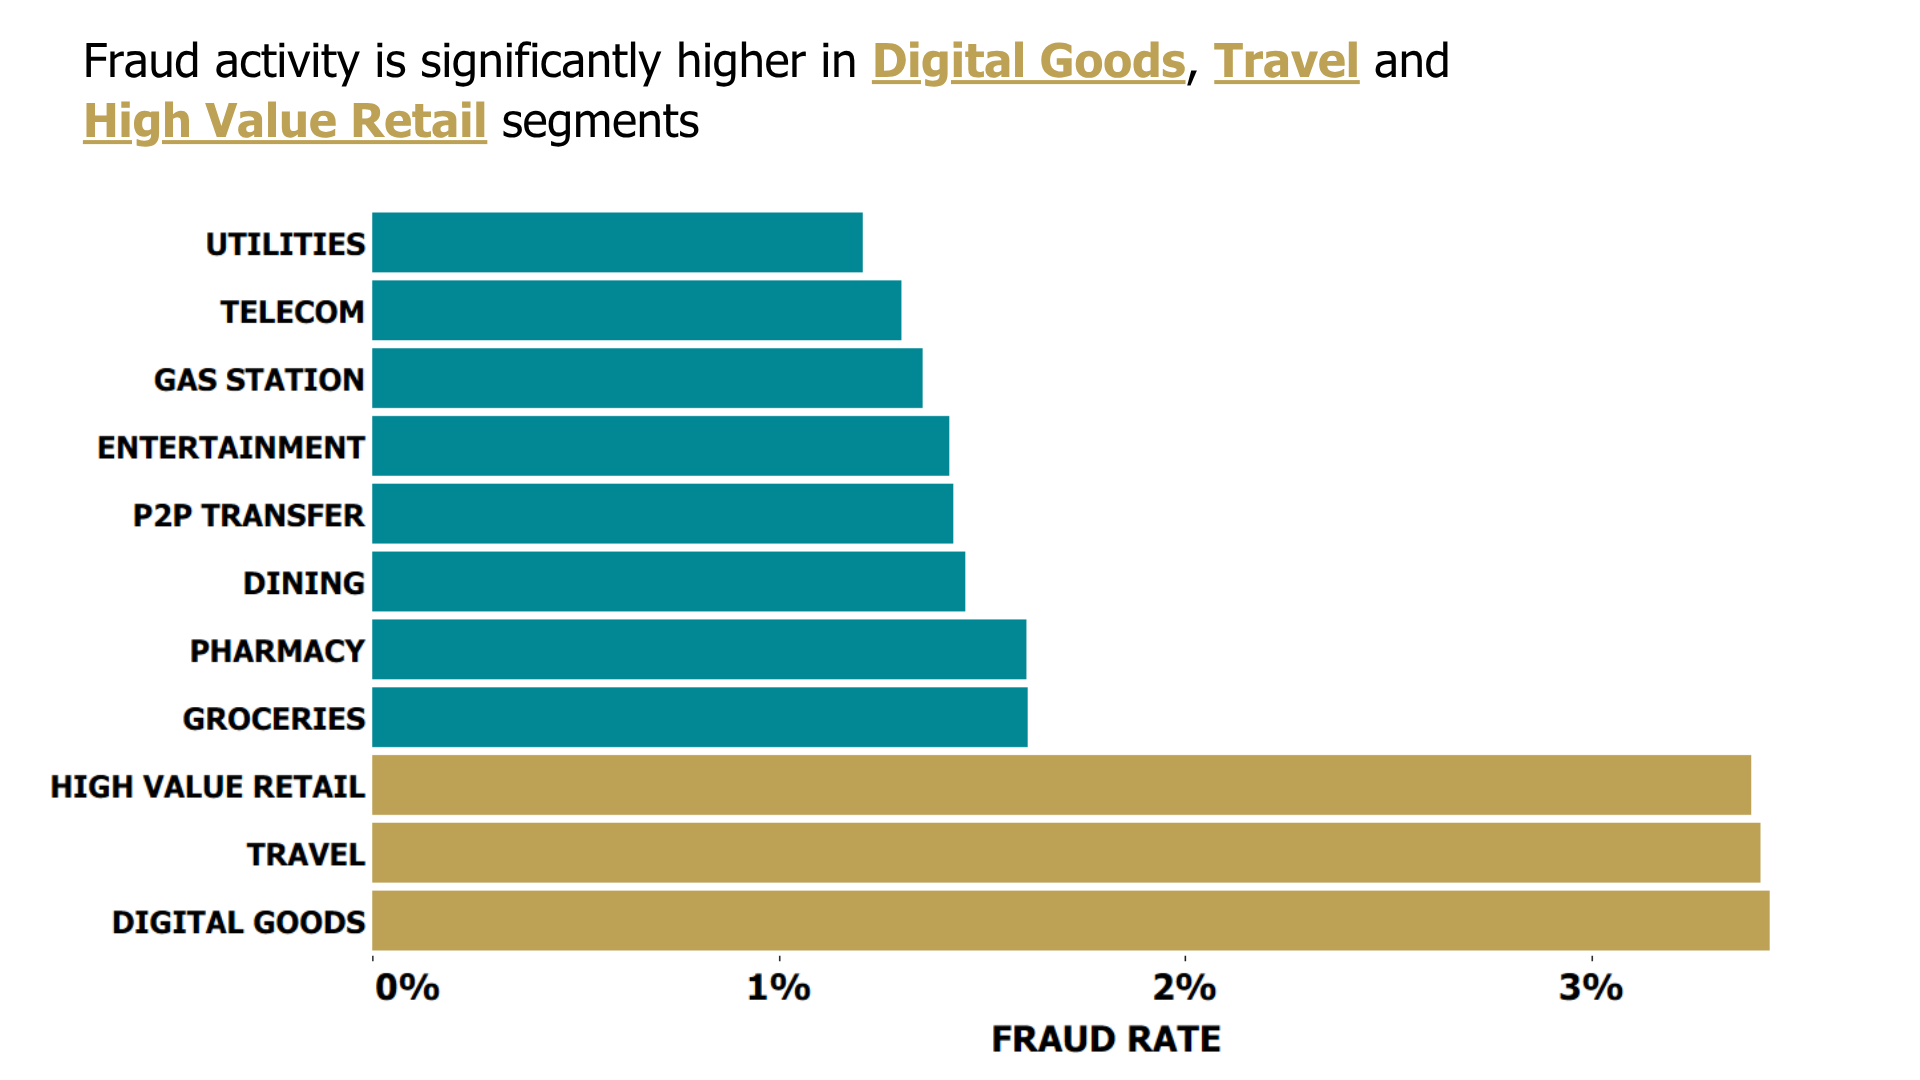
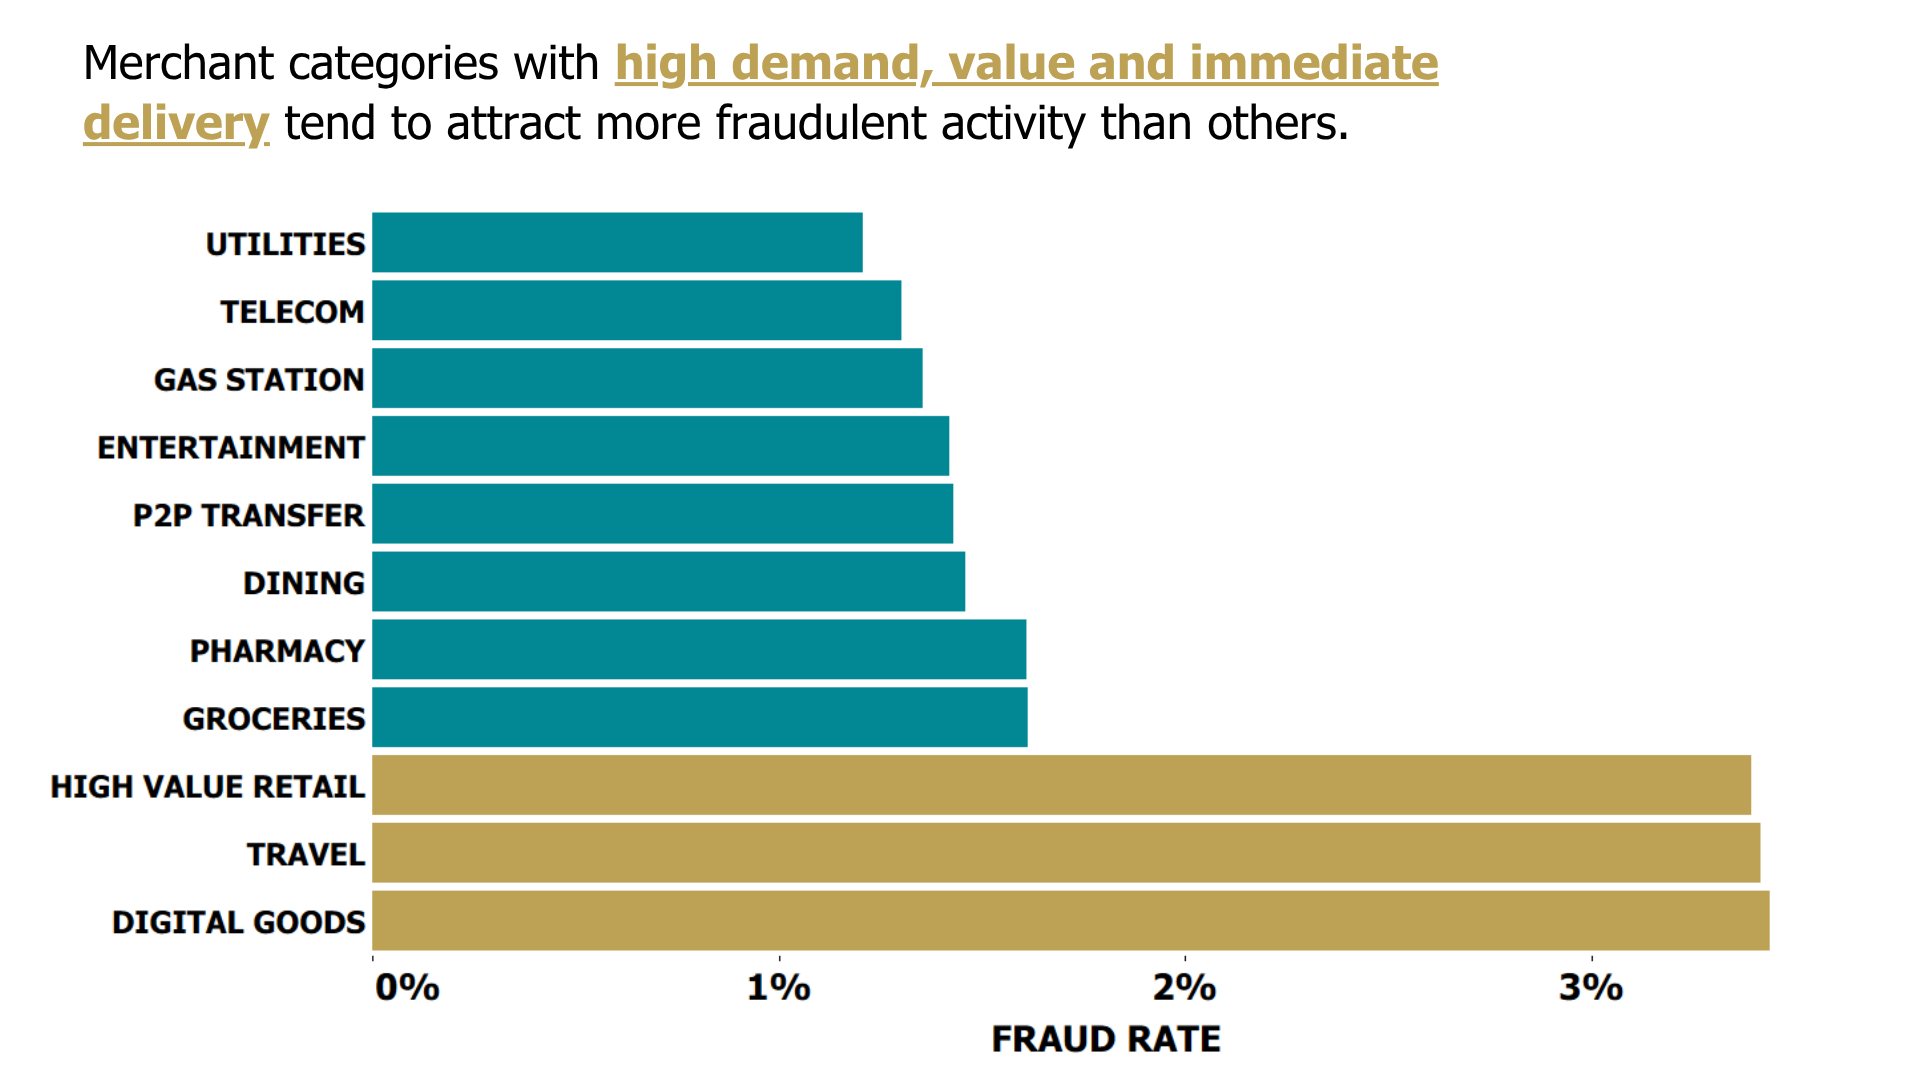
finish README

Changed region(s): [[0.0312, 0.0306, 0.75, 0.1528]]

diff --git a/main.py b/main.py
@@ -202,6 +202,7 @@ if __name__ == '__main__':
 	)
 
 	generate_confusion_matrix(base_test_case_df, 'Large amount of FP and FN', 'assets/current_confusion_matrix.png')
+	generate_confusion_matrix(base_test_case_df, 'Before', 'assets/before_confusion_matrix.png')
 	generate_confusion_matrix(best_test_case_df, 'After model adjustments', 'assets/after_model_adjustments_confusion_matrix.png')
 
 	print('\tAll charts have been generated.')

diff --git a/README.md b/README.md
@@ -111,7 +111,7 @@ IV value Reference table:
 
 - Special holidays during this season **(Black Friday, Chrismas, New Year, etc)** see an increase in sales and transaction volume, offering bigger opportunities for malicious entities to operate.
 
-- WoE (Weight of Evidence) of transactions done between november and january is 1.4361, which increases the odds of these transactions of being fraud by **4.2x** more than the others.
+- WoE (Weight of Evidence) of transactions done between november and january is 0.8113, which increases the odds of these transactions of being fraud by **2.25x** more than the others.
 
 <br>
 <br>
@@ -131,3 +131,129 @@ IV value Reference table:
 
 <br>
 <br>
+
+<div align='center'>
+	<img width='80%' src='assets/heatmap.png'/>
+</div>
+<br>
+
+- Fraud detection can become more precise when 2 or more fields are present in a transaction. In this case, both fields being high risk, there is no surprise they increase fraud rates when combined.
+
+- WoE: 1.4361, increasing odds by around **4.2x** of being fraud, working better than flagging individually.
+
+<br>
+<br>
+
+<div align='center'>
+	<img width='80%' src='assets/merchant_category_bar_chart.png'/>
+</div>
+<br>
+
+- Digital goods, such as gift cards, gaming credits, software licenses, and subscriptions are delivered immediately, giving fraudsters **little time to be stopped**.
+
+- Flights, hotels, and vacation packages can generate **large profits** from a single successful fraud attempt, hence explaining why travel category exhibits these numbers.
+
+- High value products such as smartphones, laptops, and designer goods can be **converted into cash** relatively easily.
+
+- WoE: 0.5786, increasing odds by around **78%** of being fraud.
+
+<br>
+<br>
+
+<div align='center'>
+	<img width='80%' src='assets/channel_bar_chart.png'/>
+</div>
+<br>
+
+- Fraud rates increase as transactions move further away from physical possession and rely more heavily on digital identity.
+
+- Traditional channels tend to have stronger friction and verification.
+
+- Mobile app fraud is frequently linked to account takeover.
+
+- WoE: 0.3398, increasing odds by **40%** of being fraud.
+
+<br>
+<br>
+
+<div align='center'>
+	<img width='80%' src='assets/transaction_amount_table.png'/>
+</div>
+<br>
+
+- Larger transactions are more attractive to fraudsters, as they are less common than the low value transactions.
+
+- Since these transactions are more routinary, they concentrate higher volumne, but seems like malicious agents find higher amount transactions more than worth it.
+
+- Risk often increases outside the normal spending band.
+
+- WoE: -1.6775, reducing odds by **81%** of being fraud.
+
+## Final results
+
+After analysing these fields and having obtained the best logit values based on Weight of Evidence calculation, we can turn this information into conditional features that, when met by transactions, can increase or decrease its likelyhood of being fraud.
+
+Now, the final step is to determine what should be the best threshold by which we consider a transaction legitimate or fraud. The focus is on reducing the False Positive Rates and total costs associated with fraud.
+
+It's worth mentioning that:
+
+<h3 style="padding: 10px; border-left: 5px solid #ffc107; text-align: center">
+	Higher thresholds naturally decrease False Positive Rates, but may also increase False Negatives, which significantly increases costs, since failing to catch actual fraud reduces chances of recovering the funds, potentially incurring chargebacks of 100%+.
+</h3>
+
+<br>
+
+The results are as shown:
+
+<div align='center'>
+	<img width='80%' src='assets/best_threshold.png'/>
+</div>
+
+<br>
+
+This threshold was carefully chosen as **reduces costs under $400k and fraud rates under 1%**.
+
+<br>
+
+<table>
+	<tr>
+		<td>
+			<img src='assets/before_confusion_matrix.png'/>
+		</td>
+		<td>
+			<img src='assets/after_model_adjustments_confusion_matrix.png'/>
+		</td>
+	</tr>
+</table>
+
+<br>
+
+<div align='center'>
+	<img width='80%' src='assets/final_comparison.png'/>
+</div>
+
+## Key Takeaways and Recommendations
+
+For the Fraud Strategy department:
+
+- Utilize Logistic regression as the main method for adjusting and testing fraud detection approaches.
+
+- Key fields to pay most attention to: Transaction month, hour, merchant category, channel and transaction USD amount, as these columns offer higher precision and accuracy at flagging fraud activity.
+
+- Use these logit values as reference for calibrating flagging rules:
+
+| Columns | Conditions | Logit |
+| --- | --- | --- |
+| Transaction month | November, december and january months | 0.8113 |
+| Transaction hour | Between 12pm and 5pm | 0.6016 |
+| Month + hour | Risky month and risky hours as previously described | 1.4361 |
+| Merchant category | High value retail, travel and digital goods | 0.5786 |
+| Channel | Virtual card, fake mobile app, mobile app and SIM swap | 0.3398 |
+| Transaction USD amount | Between $0.51 and $832.03 | -1.6775 |
+
+<h3 style="padding: 10px; border-left: 5px solid #ffc107;">
+	Note: Only use these parameters AS GENERAL REFERENCE, since these were ones that offered better results during testing.
+</h3>
+
+- Closely monitor main KPIs every month (FPR and total costs) and adjust parameters to effectively improve future results.
+- Avoid overfitting with many features and conditions as this can harshly impact detection on future, frequent changing data.